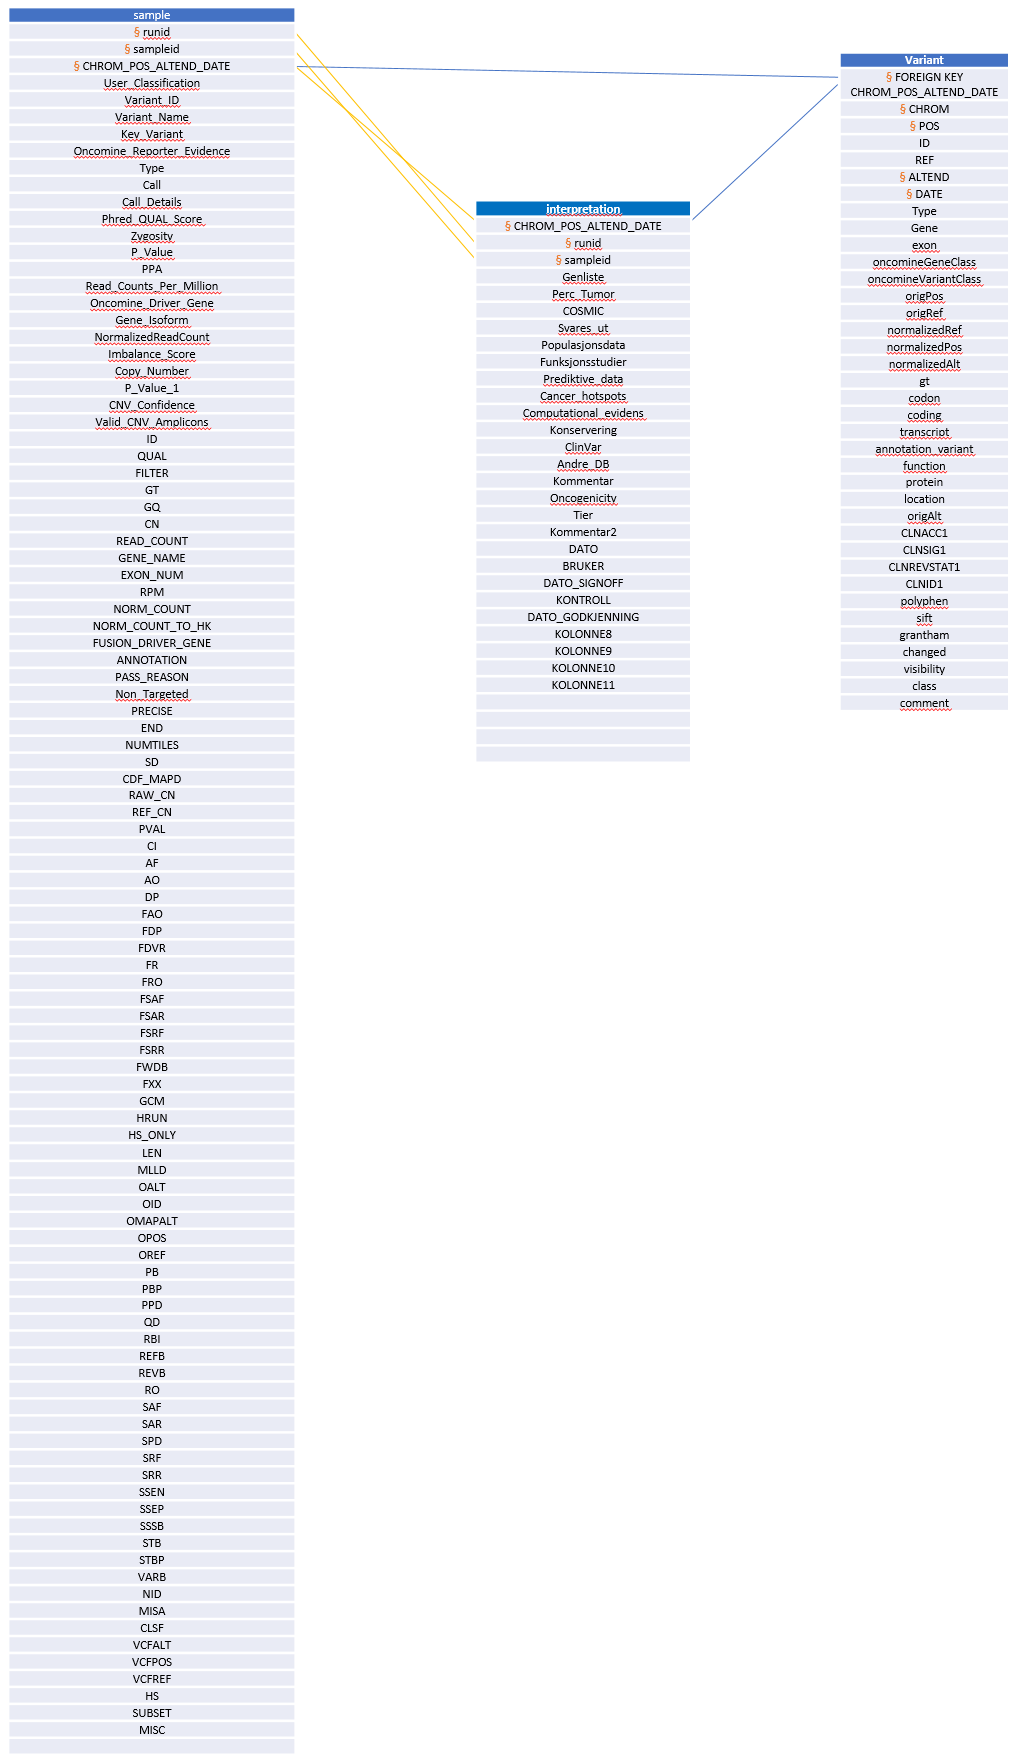
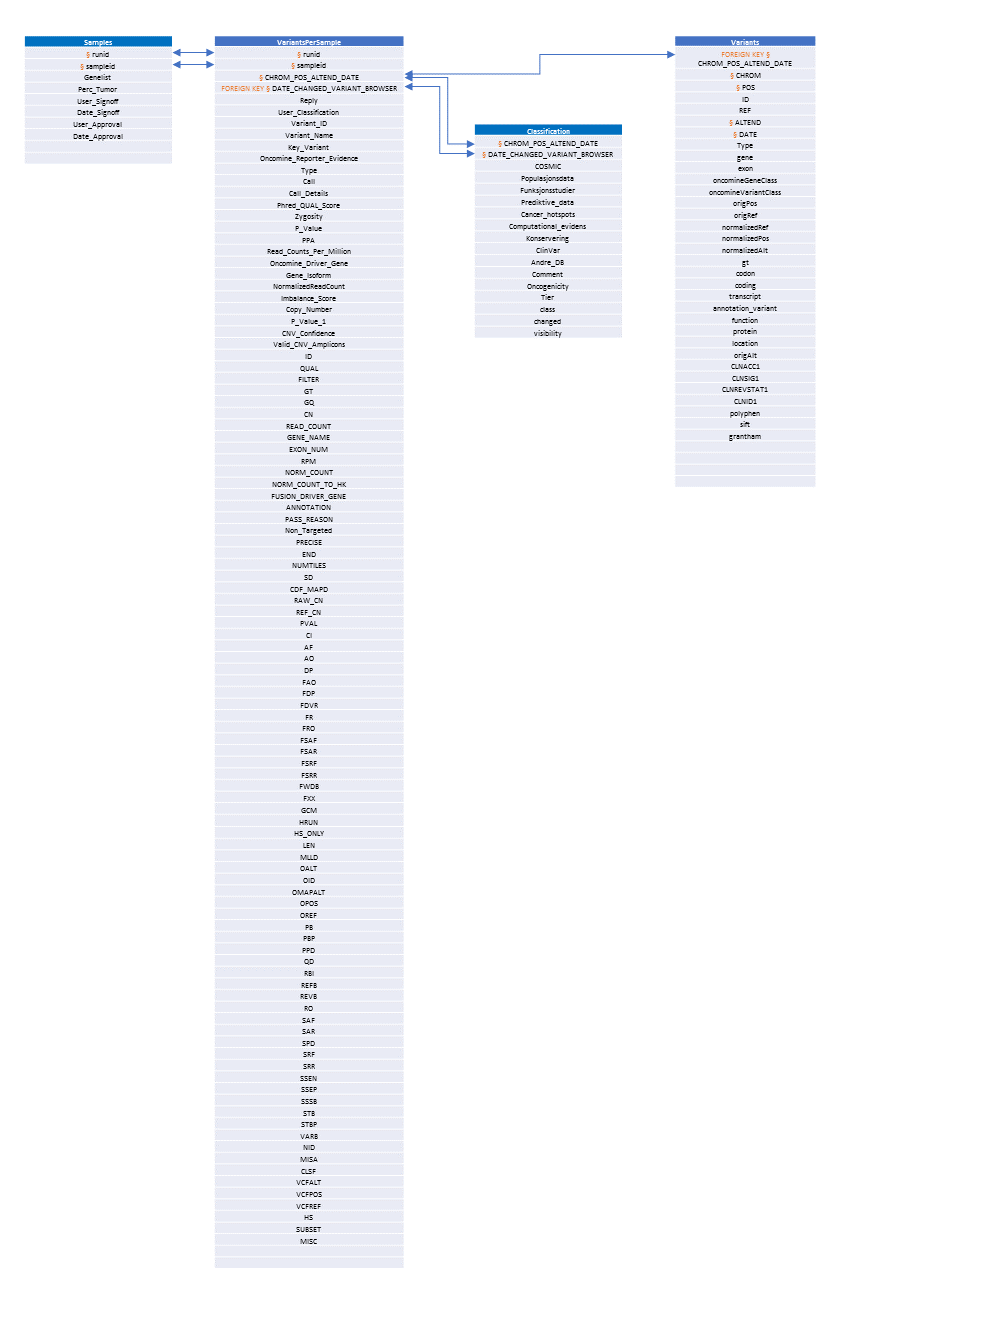
Update db with new tables and columns

diff --git a/db/dbutils.py b/db/dbutils.py
@@ -165,8 +165,6 @@ def generate_db(db):
 		result_classification = conn.execute(text("CREATE TABLE IF NOT EXISTS Classification ( \
 		CHROM_POS_ALTEND_DATE TEXT, \
 		DATE_CHANGED_VARIANT_BROWSER TEXT, \
-		runid TEXT, \
-		sampleid TEXT, \
 		COSMIC TEXT, \
 		Populasjonsdata TEXT, \
 		Funksjonsstudier TEXT, \
@@ -182,7 +180,7 @@ def generate_db(db):
 		class TEXT, \
 		changed TEXT, \
 		visibility TEXT, \
-		PRIMARY KEY (runid, sampleid, CHROM_POS_ALTEND_DATE) \
+		PRIMARY KEY (CHROM_POS_ALTEND_DATE, DATE_CHANGED_VARIANT_BROWSER) \
 		)"))
 	
 def populate_thermo_variantdb(db, dfvcf, dfvariant, run_id, sample_id, percent_tumor, sample_diseasetype):
@@ -303,14 +301,12 @@ def list_samples(db):
 	return samplelist_json
 
 def list_all_samples(db):
-	#list all samples ready for interpretation
+	#list all samples
 	engine = create_engine("sqlite:///"+db, echo=False, future=True)
 	stmt = "SELECT s.runid, s.sampleid, \
 			s.Date_Signoff, \
 			s.Date_Approval \
-			FROM Samples s \
-			WHERE Date_Signoff IS NULL \
-			AND Date_Approval IS NULL;"
+			FROM Samples s;"
 	with engine.connect() as conn:
 		samplelist = pd.read_sql_query(text(stmt), con = conn)
 	samplelist_json = samplelist.to_dict('records')
@@ -347,8 +343,9 @@ def list_all_variants(db):
 		, v.gene, v.Type, v.oncomineGeneClass, \
 		v.oncomineVariantClass, v.CHROM, v.POS, v.REF, v.ALTEND, c.class, \
 		group_concat(s.sampleid,', ') Samples \
-		FROM sample s, Variants v, Classification c \
+		FROM Sample s, Variants v, Classification c \
 		WHERE s.chrom_pos_altend_date = v.chrom_pos_altend_date \
+		AND s.chrom_pos_altend_date = v.chrom_pos_altend_date \
 		GROUP BY s.chrom_pos_altend_date;"
 	with engine.connect() as conn:
 		samplelist = pd.read_sql_query(text(stmt), con = conn)

diff --git a/db/main_db.py b/db/main_db.py
@@ -14,14 +14,15 @@ from vcfutils import get_sample_diseasetype
 from dbutils import generate_db
 from dbutils import populate_thermo_variantdb
 from dbutils import list_samples
+from dbutils import list_all_samples
 from dbutils import list_signoff_samples
 from dbutils import list_approved_samples
 from dbutils import list_all_variants
 from dbutils import list_sample_variants
 from dbutils import list_interpretation
 
-vcffile = './tests/vcfs/22shk04823_Oncomine_Extended_516_filtered.vcf'
-excelfile = './tests/vcfs/22shk04823_variants.xlsx'
+vcffile = './tests/vcfs/22skh06417_Oncomine_Extended_516_filtered.vcf'
+excelfile = './tests/vcfs/22skh06417_variants.xlsx'
 db = '/illumina/analysis/dev/2022/mfahls/fullFres/fullFres/db/newvariantdb.db'
 run_id = get_run_id(vcffile)
 sample_id = get_sample_id(vcffile)
@@ -44,6 +45,7 @@ populate_thermo_variantdb(db, df, dfvariant, \
     run_id, sample_id, percent_tumor, sample_diseasetype)
 
 list_samples(db)
+list_all_samples(db)
 list_signoff_samples(db)
 list_approved_samples(db)
 list_all_variants(db)
